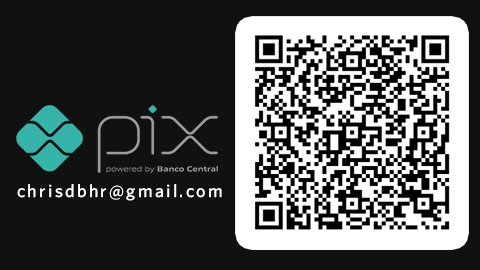
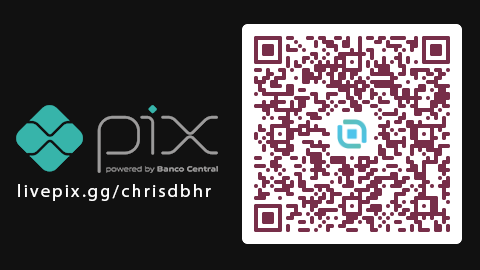
donation updates

diff --git a/index.html b/index.html
@@ -9,32 +9,6 @@
 <head>
 	<!-- Global site tag (gtag.js) - Google Analytics -->
 	<script async src="https://www.googletagmanager.com/gtag/js?id=UA-78841852-4"></script>
-	<script>
-		window.dataLayer = window.dataLayer || [];
-		function gtag(){dataLayer.push(arguments);}
-		gtag('js', new Date());
-
-		gtag('config', 'UA-78841852-4');
-
-		const pixCode = '00020126410014BR.GOV.BCB.PIX0119chrisdbhr@gmail.com52040000530398654040.005802BR5925CHRISTOPHER BORBA H RAVAI6009SAO PAULO622605226NbsgljUW7j6DvrB0fRdbt63043178';
-
-        function copyPixToClipboard() {
-            copyToClipboard(pixCode);
-            alert("Código copiado!");
-        }
-
-        const copyToClipboard = str => {
-            const el = document.createElement('textarea');
-            el.value = str;
-            el.setAttribute('readonly', '');
-            el.style.position = 'absolute';
-            el.style.left = '-9999px';
-            document.body.appendChild(el);
-            el.select();
-            document.execCommand('copy');
-            document.body.removeChild(el);
-        };
-	</script>
 
 	<title>CHRISdbhr Website</title>
 	<meta charset="utf-8"/>
@@ -585,24 +559,23 @@
 	<!-- Donation -->
 	<section id="donation">
 
-		<h2>Donation</h2>
+		<h2>Apoie meu trabalho!</h2>
 		<div class="row">
 
 			<!-- Pix -->
 			<article class="col-6 col-12-xsmall work-item">
-				<div class="image fit">
-					<img alt="PIX" src="images/thumbs/pix-chrisjogos.png"/>
-				</div>
-
-				<!-- Project Title -->
-				<h3>PIX para <strong>chrisdbhr@gmail.com</strong></h3>
-
+				<a href="https://livepix.gg/chrisdbhr" target="_blank">
+					<div class="image fit thumb">
+						<img alt="PIX" src="images/thumbs/pix-chrisjogos.png"/>
+					</div>
+					<!-- Project Title -->
+					<h3>Apoie por PIX</h3>
+				</a>
 				<!-- Description -->
 				<p>
-					<a href="https://chrisdbhr.itch.io/resultarias" id="inputPixToClipboard" onclick="copyPixToClipboard()" class="button primary small icon fa-copy">
-						Copiar código PIX
-					</a>
+					O apoio pode ser feito pelo site <a href="https://livepix.gg/chrisdbhr">LivePix</a> uma vez ou mensalmente e vai diretamente para o desenvolvimento dos projetos!
 				</p>
+
 			</article>
 
 			<!-- Patreon -->
@@ -616,37 +589,7 @@
 				</a>
 				<!-- Description -->
 				<p>
-					You can donate monthly value for me on my Patreon (in dolars).
-				</p>
-			</article>
-
-			<!-- Picpay One Time -->
-			<article class="col-6 col-12-xsmall work-item">
-				<a href="https://picpay.me/chrisdbhr" target="_blank">
-					<div class="image fit thumb">
-						<img alt="Picpay Onetime Promotion" src="images/thumbs/picpay-chrisdbhr.png"/>
-					</div>
-					<!-- Project Title -->
-					<h3>Doação no Picpay</h3>
-				</a>
-				<!-- Description -->
-				<p>
-					Qualquer valor é investido diretamente em meus projetos, agradeço qualquer valor ❤
-				</p>
-			</article>
-
-			<!-- Amazon Wishlist -->
-			<article class="col-6 col-12-xsmall work-item">
-				<a href="https://amazon.com.br/hz/wishlist/ls/RKHOLBJWVFR7" target="_blank">
-					<div class="image fit thumb">
-						<img alt="Amazon Wishlist Promotion" src="images/thumbs/amazon-wl.png"/>
-					</div>
-					<!-- Project Title -->
-					<h3>Amazon Wishlist</h3>
-				</a>
-				<!-- Description -->
-				<p>
-					Coisas que quero e as pessoas pode comprar como um presente.
+					You can donate monthly value for me on my Patreon!
 				</p>
 			</article>
 
